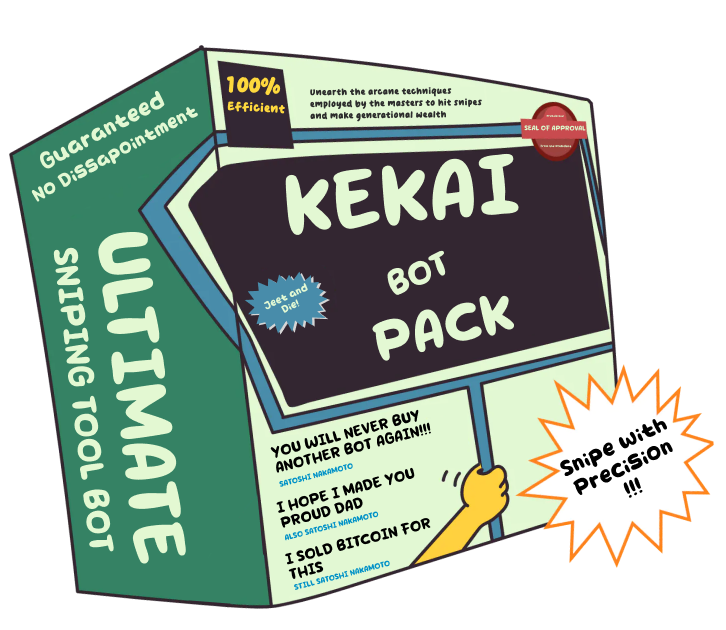
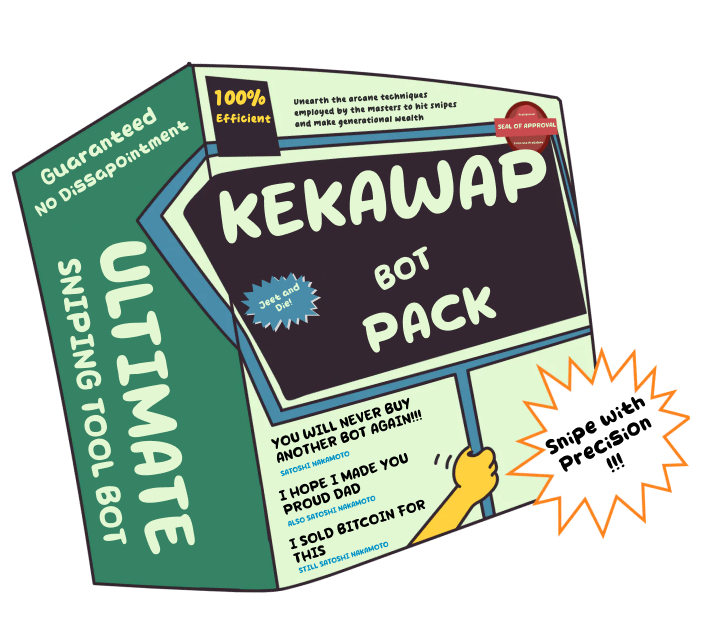
fe

Changed region(s): [[0.0, 0.0612, 0.9958, 0.9791]]

diff --git a/src/pages/Kekainomics.js b/src/pages/Kekainomics.js
@@ -9,9 +9,11 @@ import Bought from '../assets/boughtt.png'
 function Kekainomics() {
   return (
     <div className='flex flex-col justify-center items-center'>
-      <p className='snackid text-7xl lg:text-9xl  lg:hidden  text-center'>KEKAI
+      
+      <p className='snackid text-7xl lg:text-9xl  lg:hidden  text-center'>KEKA
       NOMICS </p>
-      <p className='snackid lg:text-9xl   hidden lg:block text-center'>KEKAINOMICS </p>
+
+      <p className='snackid lg:text-9xl   hidden lg:block text-center'>KEKANOMICS </p>
 
       <div className="twosignmob flex flex-col justify-center items-center mt-10 lg:hidden">
       <img src={Lpmob} alt="" className='w-80 ' />
@@ -20,7 +22,7 @@ function Kekainomics() {
       <img src={Twosign} alt="" className='w-[1000px] mt-32 hidden lg:block ' />
 
 
-      <p className='snackid text-xl text-center p-2 lg:px-96 mb-10'>With KEKAI you get pinged only for contracts that are worth considering a snipe. <br/> You no longer have to monitor all contracts and figure out if the project is worth a shot.</p>
+      <p className='snackid text-xl text-center p-2 lg:px-96 mb-10'>With KEKAWAP you get pinged only for contracts that are worth considering a snipe. <br/> You no longer have to monitor all contracts and figure out if the project is worth a shot.</p>
 
       <img src={Buymob} alt="" className='w-60 lg:w-[500px] ' />
       <img src={Spill} alt="" className='w-96 lg:w-[1500px] ' />

diff --git a/src/pages/About.js b/src/pages/About.js
@@ -12,8 +12,8 @@ function About() {
     <div className="total flex">
       <div className="about flex flex-col justify-center items-center lg:w-1/2">
       <img src={Trespass} alt="" className='w-80 lg:hidden' />
-      <p className='snackid text-8xl     text-center mb-10  '>ABOUT KEKAI</p>
-      <p className='hachi text-xl text-center lg:text-left lg:ml-5 p-2'>KEK AI is here to make sure you don`t miss any good snipes. You get pinged in time to setup and start winning</p>
+      <p className='snackid text-8xl     text-center mb-10  '>ABOUT KEKAWAP</p>
+      <p className='hachi text-xl text-center lg:text-left lg:ml-5 p-2'>KEKAWAP AI is here to make sure you don`t miss any good snipes. You get pinged in time to setup and start winning</p>
       <img src={Containersmob} alt="" className='w-80  lg:hidden' />
 
 

diff --git a/src/pages/Home.js b/src/pages/Home.js
@@ -15,7 +15,7 @@ function Home() {
     <div className='hero flex flex-col justify-center items-center overflow-hidden relative'>
       
       <img src={Hero} alt="" className='w-96 ' />
-      <p className='snackid text-8xl lg:text-[300px] lg:mt-[-69px]'>KEKAI</p>
+      <p className='snackid text-8xl lg:text-[300px] lg:mt-[-69px]'>KEKAWAP</p>
       <p className='snackid text-xl'>Never miss a cook again</p>
       <img src={Gunsmall} alt="" className='gunbig w-80 lg:hidden' />
       <img src={Buymob} alt="" className='buyhero w-60 lg:hidden' />
